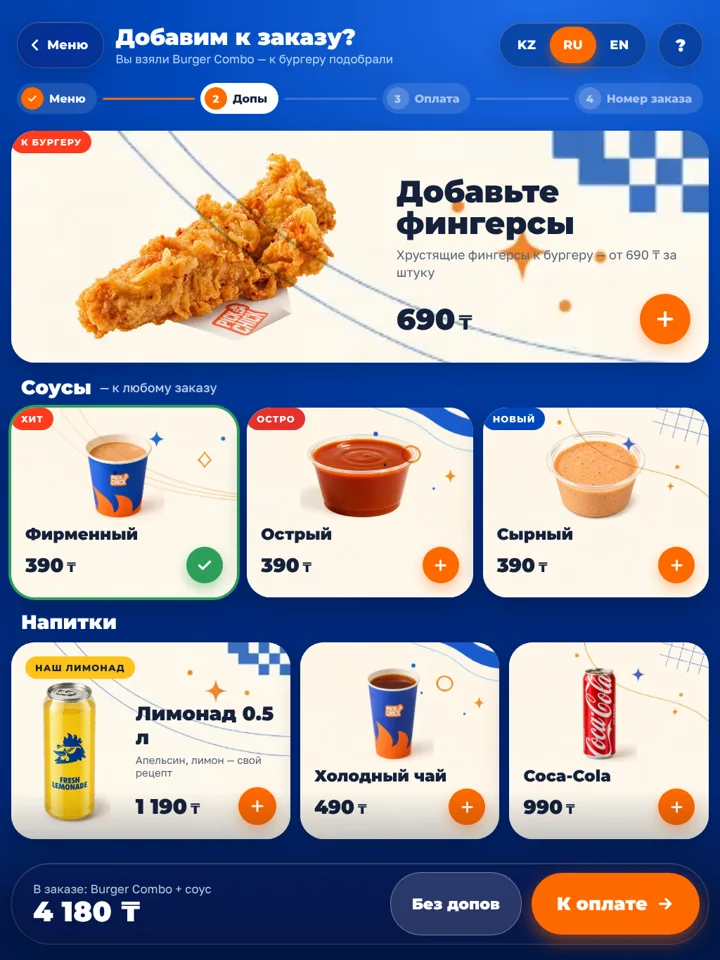
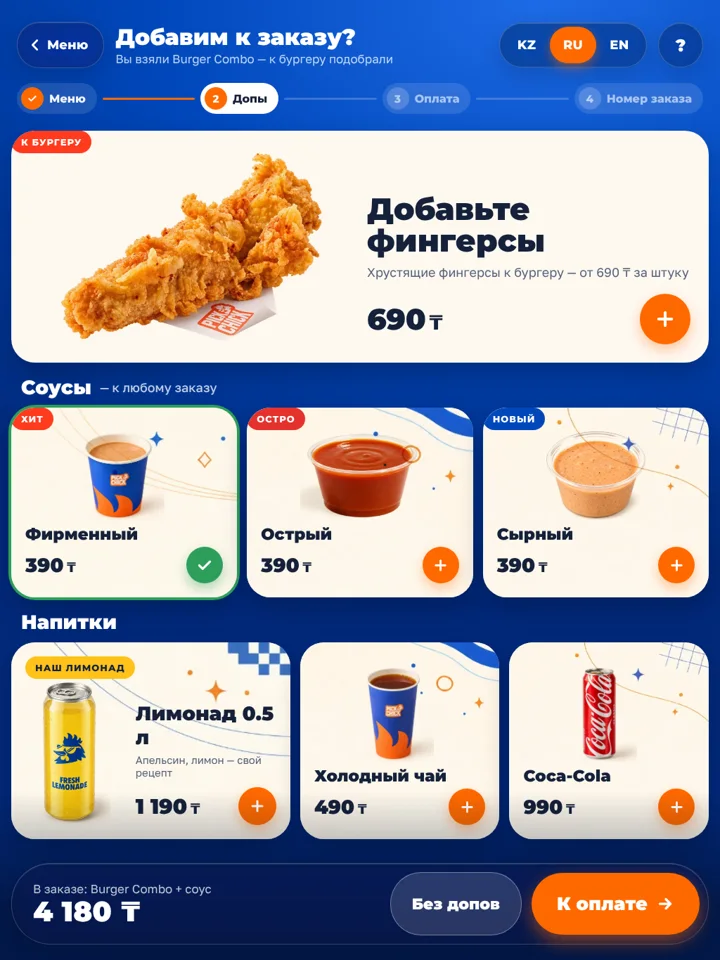
docs(design): kiosk product card, option sheets and Kaspi QR payment brief (owner, 2026-10-13)
Adds product-and-payment.md with its mock-ups and the updated upsell images (plain cream
hero card without the line illustration).

Claude-Session: https://claude.ai/code/session_01VEpC4skHyGmNd6DEBA1gS2

Changed region(s): [[0.0917, 0.125, 1.0, 0.375], [0.1833, 0.1562, 0.2139, 0.1875], [0.1528, 0.125, 0.1833, 0.1562]]

diff --git a/docs/design/kiosk-redesign-2026-10-13/product-and-payment.md b/docs/design/kiosk-redesign-2026-10-13/product-and-payment.md
@@ -1,0 +1,50 @@
+# Киоск iPad — карточка товара, выбор опций и оплата (дополнение 2026-10-14)
+
+Дополнение к `README.md` в этой же папке. Общие токены (синий фон, кремовая карточка, стекло, оранжевый CTA, шрифты, масштаб `v()`) — оттуда. Картинки: `images/product-*.webp`, `images/payment-qr.webp`.
+
+Также обновлены `images/upsell-*.webp`: в верхней большой карточке допов (бургер / фингерсы) **нет фоновой иллюстрации** с линиями — чистый кремовый `#FEF8F0`. Иллюстрации `bg1..bg4` остаются только в маленьких карточках.
+
+## 1. Карточка комбо (`images/product-combo.webp`)
+
+Всё помещается на один экран 1024×1366 без прокрутки.
+
+- **Шапка:** стеклянная «‹ Меню», название товара + подпись «Комбо · 520 г», справа KZ/RU/EN и «?».
+- **Герой** (`top 124`, высота 380, кремовая карточка): слева фото товара (`contain`, `multiply`), справа ярлык (ХИТ НЕДЕЛИ и т.п.), название Montserrat 900 52, **состав плашками** (белые pill 36: «4 фингерса», «фри», «соус», «тост», «коулслоу», «напиток» — из состава товара), строка «520 г · 1240 ккал» и кнопка-обводка «КБЖУ и состав ›» (открывает существующий экран/лист КБЖУ). Плитки КБЖУ на главном экране **убрать**.
+- **① Напиток** (заголовок с белым кружком-номером, справа зелёная плашка с выбранным значением, напр. «✓ Coca-Cola 0.5 л» или «✓ Лимонад +200 ₸»): сетка 5 колонок × 2 ряда, плитки 172 высотой, белые, радиус 24. 9 напитков + последняя плитка «Ещё N · Показать все» (пунктирная рамка, мини-фото) → шторка всех напитков.
+- **② Соус**: 4 плитки в ряд (высота 164).
+- **Плитка опции:** фото `contain`, название Montserrat 800 15, подпись 13 (`#55617A`), ниже статус: «Входит в комбо» (зелёный `#2E9E5B`) или доплата pill `+200 ₸` (`#FFE7D6` / `#B84500`), или «Нет в наличии» (плитка `opacity .5`, не нажимается). Выбранная: `box-shadow: 0 0 0 4px #FF6900` + оранжевый кружок с галочкой справа сверху. Heinz без фото — круг 92 с цветом бренда соуса и надписью.
+- **Список «Добавить к заказу» (8 строк) с карточки товара убрать** — его роль выполняют умные допы.
+- **Нижняя стеклянная панель:** слева −/+ (стеклянные круги 64), затем «Coca-Cola 0.5 л · соус фирменный» (16, 75% белого) / «Всё выбрано» (или «Выберите соус», если обязательная группа не заполнена — тогда кнопка неактивна), справа оранжевая «В корзину · 4 190 ₸» (цена с учётом доплат и количества).
+
+Для других комбо/дуо — та же схема: каждая обязательная группа модификаторов = пронумерованная секция. Если групп больше двух — секции идут ниже, экран прокручивается, панель остаётся снизу.
+
+## 2. Шторка «Выберите напиток» (`images/product-drinks-sheet.webp`)
+
+Нижняя шторка поверх карточки (затемнение `rgba(2,10,31,.6)` + blur 6), высота ~1110, фон `#0A3FA8`, радиус 44 сверху, «ручка» сверху, заголовок «Выберите напиток» + «Входит в Pick Combo» + стеклянный ✕. Напитки **сгруппированы**: «Газировка», «Холодный чай», «Лимонад, вода, сок» — сетка 5 колонок, те же плитки опций. Внизу оранжевая «Готово · Лимонад +200 ₸» (показывает выбранное и доплату).
+
+## 3. Простые товары — шторка вместо отдельной страницы (`images/product-sauce-sheet.webp`, `images/product-simple-sheet.webp`)
+
+Для товаров из «Допов»/«Напитков» без обязательного выбора или с одним выбором (размер) — не открывать отдельную страницу, а **шторку поверх меню**:
+
+- кремовая шторка (иллюстрация `bg2` сверху справа), ручка, стеклянный ✕;
+- фото 340×300 слева, справа название Montserrat 900 44, описание 19/27, строка «60 г · 230 ккал · КБЖУ»;
+- если есть размер — «Размер»: 4 плитки (белые, 96 высотой, «60 мл / 390 ₸», «0.3 л / 1 190 ₸»…), выбранная с оранжевой обводкой;
+- внизу белый −/+ (кнопки 72) и оранжевая «В корзину · 390 ₸» (96 высотой).
+
+## 4. Оплата Kaspi QR (`images/payment-qr.webp`)
+
+Улучшение текущего экрана оплаты QR (логика та же: QR, таймер, автообновление статуса, отменить нельзя).
+
+- Фон — синий градиент экрана + россыпь звёздочек (четырёхлучевые белые/жёлтые/оранжевые, 12–34 px, прозрачность .45–.95) и мелкие точки; без кремовой карточки.
+- Шапка с логотипом «Оплата / Заказ № … · С собой» + шаги «Меню ✓ → Допы ✓ → Оплата → Номер заказа».
+- По центру: иконка Kaspi 62 + «Kaspi QR», «К оплате», сумма Montserrat 900 92 белым.
+- QR на белой подложке (паддинг 30, радиус 40, большая тень), вокруг 4 оранжевых уголка-рамки сканера (7px).
+- Плашка «QR действует 02:58» с круговым индикатором времени.
+- Три стеклянные плитки шагов: «Откройте Kaspi.kz», «Нажмите «Kaspi QR»», «Наведите камеру».
+- Нижняя панель: мини-фото позиций заказа + их названия, зелёная точка «Ждём оплату — экран обновится сам», справа стеклянная «Позвать сотрудника». Кнопки «Отменить» нет (оплату по QR отменить нельзя).
+
+Остальное после оплаты (ошибки, «Проверяем оплату», номер заказа) — без изменений.
+
+## Проверка
+
+Скриншоты на 1024×1366, 820×1180, 744×1133: карточка Pick Combo (по умолчанию и с лимонадом +200), шторка напитков, шторка соуса с размером, шторка тоста, экран QR; RU/KZ/EN — названия не обрезаются; сравнить с `images/`.
